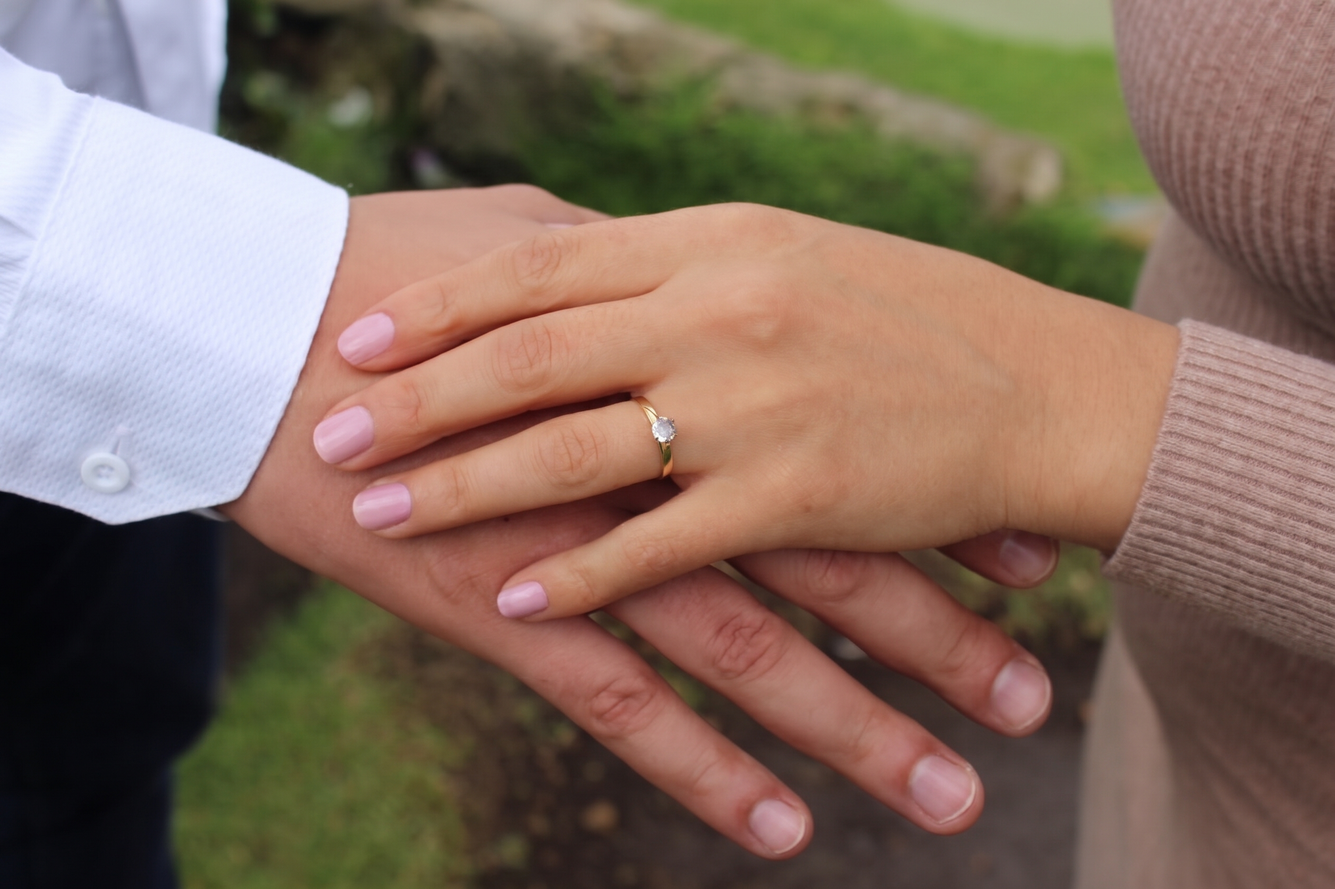
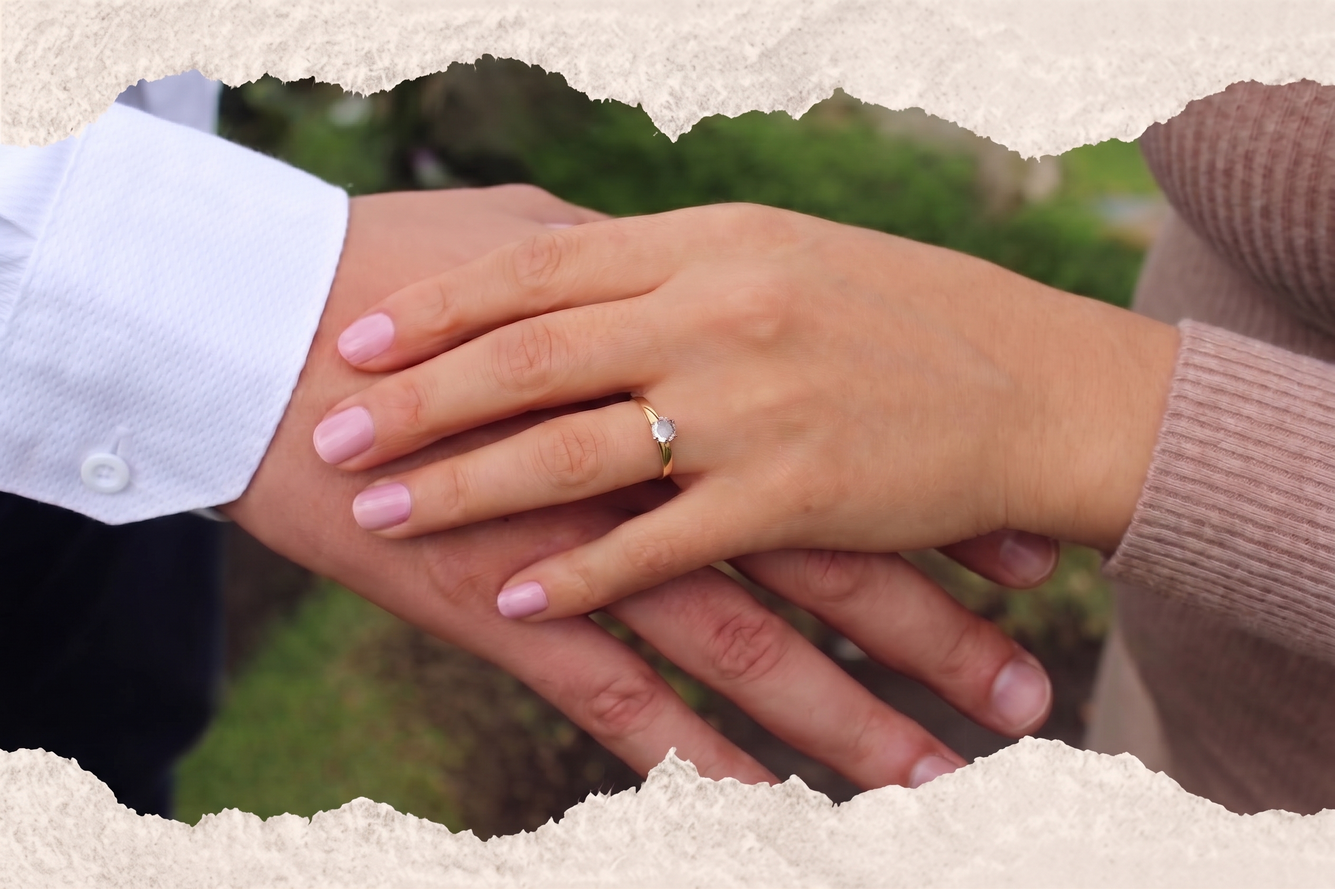
Use supplied torn ring photo artwork

Changed region(s): [[0.0, 0.8337, 1.0, 1.0], [0.0, 0.0, 1.0, 0.1853], [0.4688, 0.4632, 0.5, 0.4941]]

diff --git a/styles.css b/styles.css
@@ -71,11 +71,7 @@ h1 span { display: block; }
 .countdown div:last-child { border: 0; }
 .countdown strong { color: #527b46; font-family: var(--serif); font-size: 1.55rem; font-weight: 400; }
 .countdown span { color: #67815b; font-family: var(--sans); font-size: .42rem; text-transform: uppercase; }
-.photo-countdown { position: relative; margin: 1.2rem auto 1.8rem; padding: 9px 5px 14px; background: linear-gradient(180deg, #f8f4ea, #f0e9da); filter: drop-shadow(0 3px 3px rgb(45 49 37 / 12%)); }
-.photo-countdown::before, .photo-countdown::after { position: absolute; z-index: 1; right: 0; left: 0; content: ""; background: linear-gradient(180deg, #faf7ef, #f3eddf); pointer-events: none; }
-.photo-countdown::before { top: 0; height: 23px; clip-path: polygon(0 0, 100% 0, 100% 50%, 96% 38%, 92% 73%, 87% 40%, 83% 64%, 78% 32%, 73% 70%, 68% 41%, 63% 77%, 58% 36%, 53% 64%, 48% 30%, 43% 72%, 38% 40%, 33% 75%, 28% 35%, 23% 66%, 18% 34%, 13% 72%, 8% 39%, 4% 64%, 0 42%); }
-.photo-countdown::after { bottom: 0; height: 27px; clip-path: polygon(0 48%, 5% 68%, 10% 35%, 15% 70%, 20% 39%, 25% 73%, 30% 32%, 35% 67%, 40% 34%, 45% 76%, 50% 40%, 55% 68%, 60% 33%, 65% 74%, 70% 38%, 75% 69%, 80% 34%, 85% 75%, 90% 36%, 95% 67%, 100% 42%, 100% 100%, 0 100%); }
-.photo-countdown img { display: block; width: 100%; height: auto; clip-path: polygon(0 5%, 4% 3%, 8% 6%, 12% 2%, 17% 5%, 22% 2%, 27% 6%, 32% 3%, 37% 6%, 42% 2%, 47% 5%, 52% 2%, 57% 6%, 62% 3%, 67% 5%, 72% 2%, 77% 6%, 82% 3%, 87% 6%, 92% 2%, 97% 5%, 100% 3%, 100% 95%, 96% 97%, 92% 94%, 87% 98%, 82% 95%, 77% 98%, 72% 94%, 67% 97%, 62% 94%, 57% 98%, 52% 95%, 47% 98%, 42% 94%, 37% 97%, 32% 94%, 27% 98%, 22% 95%, 17% 97%, 12% 94%, 7% 98%, 3% 95%, 0 97%); }
+.photo-countdown { margin: 1.2rem auto 1.8rem; }
 .event-card { margin: 0 auto; padding: 1.3rem .8rem 1.65rem; background: var(--paper); box-shadow: none; }
 #iglesia { background: var(--paper); box-shadow: none; }
 .event-icon { width: 68px; height: 66px; margin: 0 auto .2rem; object-fit: contain; }

diff --git a/invitacion.html b/invitacion.html
@@ -9,7 +9,7 @@
     <link rel="preconnect" href="https://fonts.googleapis.com" />
     <link rel="preconnect" href="https://fonts.gstatic.com" crossorigin />
     <link href="https://fonts.googleapis.com/css2?family=DM+Sans:wght@400;500;600;700&family=Great+Vibes&family=Playfair+Display:ital,wght@0,400;0,500;0,600;1,400;1,500&family=Tangerine:wght@400;700&display=swap" rel="stylesheet" />
-    <link rel="stylesheet" href="styles.css?v=20261118-13" />
+    <link rel="stylesheet" href="styles.css?v=20261118-14" />
     <script src="script.js?v=55" defer></script>
   </head>
   <body>
